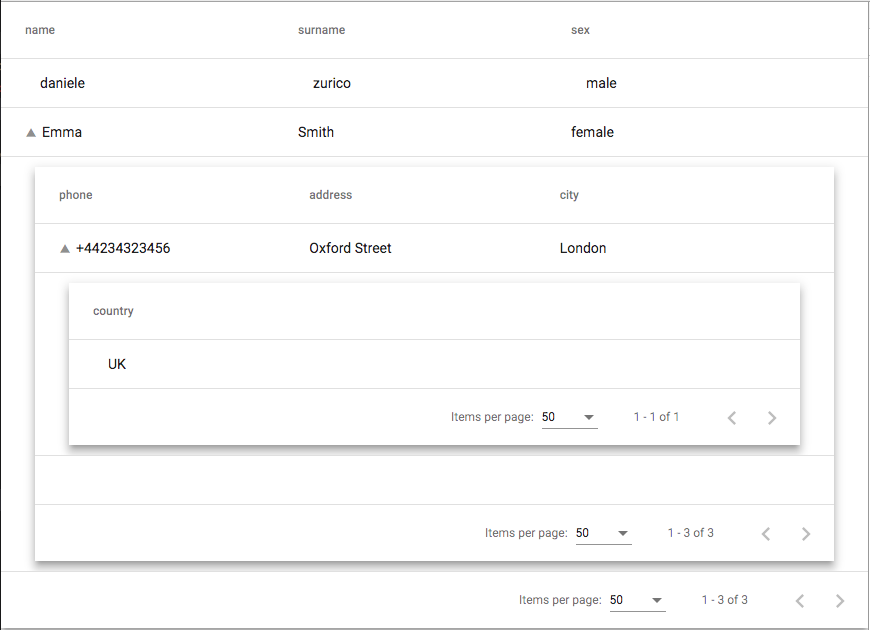
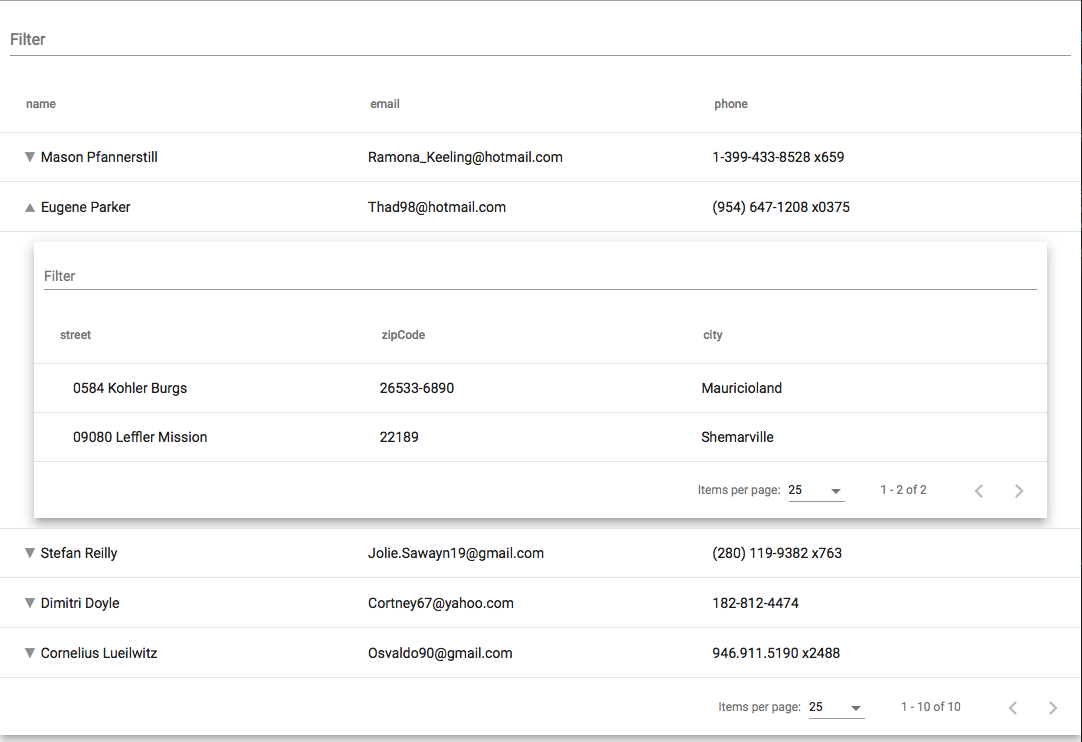
add search bar

diff --git a/projects/ngx-data-table/src/lib/ngx-data-table/ngx-data-table-datasource.ts b/projects/ngx-data-table/src/lib/ngx-data-table/ngx-data-table-datasource.ts
@@ -1,7 +1,7 @@
 import { DataSource } from '@angular/cdk/collections';
 import { MatPaginator, MatSort } from '@angular/material';
 import { map } from 'rxjs/operators';
-import { Observable, of as observableOf, merge, BehaviorSubject } from 'rxjs';
+import {Observable, of as observableOf, merge, BehaviorSubject, combineLatest} from 'rxjs';
 
 /**
  * Data source for the NgxDataTable view. This class should
@@ -10,7 +10,9 @@ import { Observable, of as observableOf, merge, BehaviorSubject } from 'rxjs';
  */
 export class NgxDataTableDataSource extends DataSource<any> {
   public data: any[];
-  _filterChange = new BehaviorSubject('');
+  _filterChange = new BehaviorSubject<string>('');
+  filteredData: any[];
+
   get filter(): string {
     return this._filterChange.value;
   }
@@ -51,17 +53,42 @@ export class NgxDataTableDataSource extends DataSource<any> {
       this._filterChange,
     ];
 
-    // Set the paginators length
+    // Set the paginator length
     this.paginator.length = this.data.length;
 
     return merge(...dataMutations).pipe(
       map(() => {
-        return this.data.slice().filter((item: any) => {
-          console.log(this.filter);
-          return this.getPagedData(this.getSortedData([...this.data]));
-        });
+        const filtered = this._filterData(this._data);
+        this.data = this._enrichData(filtered);
+        return this.getPagedData(this.getSortedData([...this.data]));
       })
     );
+  }
+
+  private _enrichData(filtered) {
+    const rows = [];
+    filtered.forEach(
+      element =>
+        element.details
+          ? rows.push(element, {detailRow: true, element})
+          : rows.push(element)
+    );
+    return rows;
+  }
+
+  private _filterData(data: any[]) {
+    this.filteredData =
+      !this.filter ? data : data.filter(obj => {
+      // Transform the data into a lowercase string of all property values.
+      const accumulator = (currentTerm, key) => currentTerm + obj[key];
+      const dataStr = Object.keys(obj).reduce(accumulator, '').toLowerCase();
+
+      // Transform the filter by converting it to lowercase and removing whitespace.
+      const transformedFilter = this.filter.trim().toLowerCase();
+
+      return dataStr.indexOf(transformedFilter) !== -1;
+    });
+    return this.filteredData;
   }
 
   /**
@@ -84,7 +111,6 @@ export class NgxDataTableDataSource extends DataSource<any> {
    * this would be replaced by requesting the appropriate data from the server.
    */
   private getSortedData(data: any[]) {
-    debugger;
     if (!this.sort.active || this.sort.direction === '') {
       return data;
     }

diff --git a/projects/ngx-data-table/src/lib/ngx-data-table/ngx-data-table.component.html b/projects/ngx-data-table/src/lib/ngx-data-table/ngx-data-table.component.html
@@ -1,17 +1,17 @@
 <div class="mat-elevation-z8">
     <mat-form-field>
-      <input matInput (keyup)="applyFilter($event.target.value)" placeholder="Filter">
+      <input matInput (keyup)="applyFilter($event.target.value)" placeholder="Filter" class="filter">
     </mat-form-field>
   <mat-table #table [dataSource]="dataSource" matSort aria-label="Elements">
     <ng-container [matColumnDef]="cols" *ngFor="let cols of displayedColumns; let i = index">
-      <mat-header-cell *matHeaderCellDef mat-sort-header> {{cols}} </mat-header-cell>
-      <mat-cell *matCellDef="let element">
+      <mat-header-cell *matHeaderCellDef mat-sort-header>{{cols}}</mat-header-cell>
+      <mat-cell *matCellDef="let element" [ngClass]="{'col-value': element.details === undefined}">
         <!-- expand caret -->
         <span *ngIf="i === 0 && element.details">
           <span *ngIf="expandedElement && expandedElement[cols] === element[cols]; else plusIcon" class="expand-icon">&#9650;</span>
           <ng-template #plusIcon><span class="expand-icon">&#9660;</span></ng-template>
         </span>
-        <span [ngClass]="{'col-value': element.details === undefined}">{{element[cols]}}</span>
+        <span>{{element[cols]}}</span>
       </mat-cell>
     </ng-container>
 
@@ -32,9 +32,10 @@
   </mat-table>
 
   <mat-paginator #paginator
+
     [length]="dataSource?.data?.length"
     [pageIndex]="0"
-    [pageSize]="50"
+    [pageSize]="25"
     [pageSizeOptions]="[25, 50, 100, 250]">
   </mat-paginator>
 </div>

diff --git a/src/app/app.component.ts b/src/app/app.component.ts
@@ -1,4 +1,5 @@
-import { Component } from '@angular/core';
+import {Component} from '@angular/core';
+import * as faker from 'faker';
 
 @Component({
   selector: 'app-root',
@@ -8,32 +9,28 @@ import { Component } from '@angular/core';
 export class AppComponent {
   title = 'app';
 
-  data: any[] = [
-    {
-      name: 'daniele',
-      surname: 'zurico',
-      sex: 'male'
-    },
-    {
-      name: 'Emma',
-      surname: 'Smith',
-      sex: 'female',
-      details: [
-        {
-          phone: '+44234323456',
-          address: 'Oxford Street',
-          city: 'London',
-          details: [
-            {
-              country: 'UK'
-            }
-          ]
-        },
-        {
-          a: 'Charlotte',
-          b: 'Taylor'
-        },
-      ]
+  data: any[] = [];
+
+  constructor() {
+    for (let i = 0; i < 5; i++) {
+      const user = {
+        name: faker.name.findName(),
+        email: faker.internet.email(),
+        phone: faker.phone.phoneNumber(),
+        details: [],
+      };
+
+      for (let j = 0; j < 2; j++) {
+        const details = {
+          street: faker.address.streetAddress(),
+          zipCode: faker.address.zipCode(),
+          city: faker.address.city(),
+        };
+        user.details.push(details);
+      }
+
+      this.data.push(user);
     }
-  ];
+  }
 }
+

diff --git a/projects/ngx-data-table/src/lib/ngx-data-table/ngx-data-table.component.ts b/projects/ngx-data-table/src/lib/ngx-data-table/ngx-data-table.component.ts
@@ -13,11 +13,10 @@ import {
   selector: 'ngx-data-table',
   templateUrl: './ngx-data-table.component.html',
   styles: [
-    `
-    .detail-table {display: flex; flex-direction: column; display: block; margin: 10px; width: 100%;}
+    `.detail-table {display: flex;flex-direction: column;display: block;margin: 10px;width: 100%;}
     .expand-icon {color: rgba(0,0,0,.44);font-size: 12px; margin-right: 5px; cursor: pointer;}
-    .col-value {margin-left: 15px;}
-  `,
+    .col-value:first-child span{margin-left: 15px;}
+    .mat-form-field {padding: 10px 10px 0 10px;width: calc(100% - 20px);}`
   ],
   animations: [
     trigger('detailExpand', [
@@ -70,8 +69,6 @@ export class NgxDataTableComponent {
   }
 
   applyFilter(filterValue: string) {
-    filterValue = filterValue.trim(); // Remove whitespace
-    filterValue = filterValue.toLowerCase(); // MatTableDataSource defaults to lowercase matches
     this.dataSource.filter = filterValue;
   }
 }

diff --git a/README.md b/README.md
@@ -1,5 +1,13 @@
-# DataTable
-Angular library generated with angular-cli (6.0.3) for more information and a full explanation go on this link: http://www.dzurico.com/generate-a-library-with-angular-6/
+# Master Detail table
+Master detail table built on top of angular material. It allows to nested as much as table you want. 
+To Have a nested table your object need to contain a an array with the name `details` (see the example if you not sure).
+
+# Features:
+- master detail table 
+- search
+- paginator (visible if you've more then 25 items)
+- order
+
 
 ![alt text](https://raw.githubusercontent.com/daniele-zurico/library-ngx-data-table/master-detail/master-detail.jpg)
 
